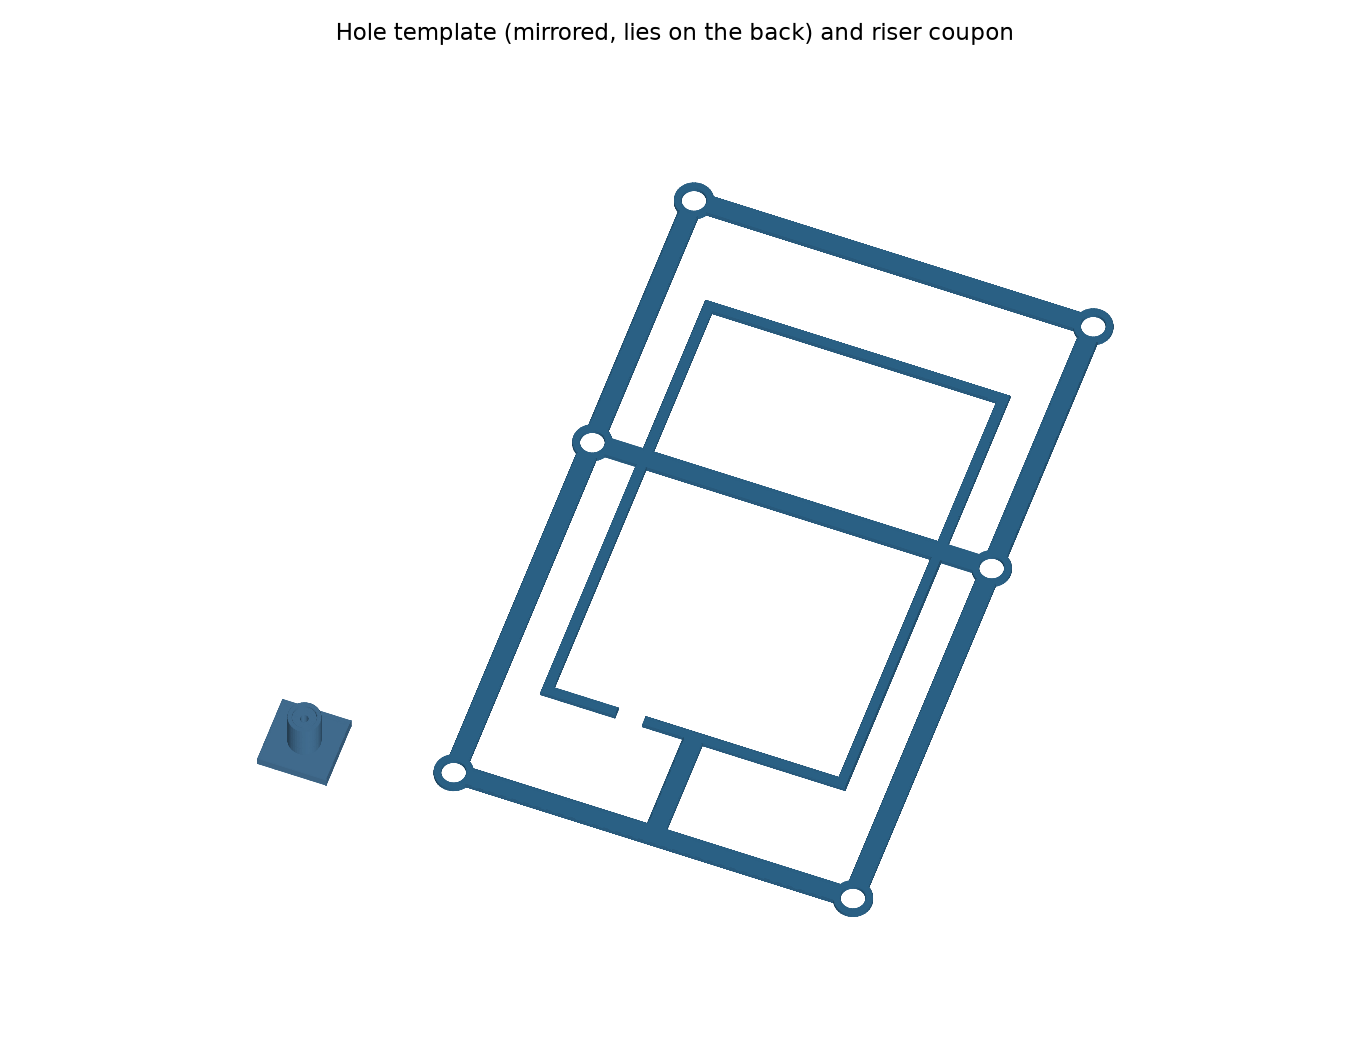
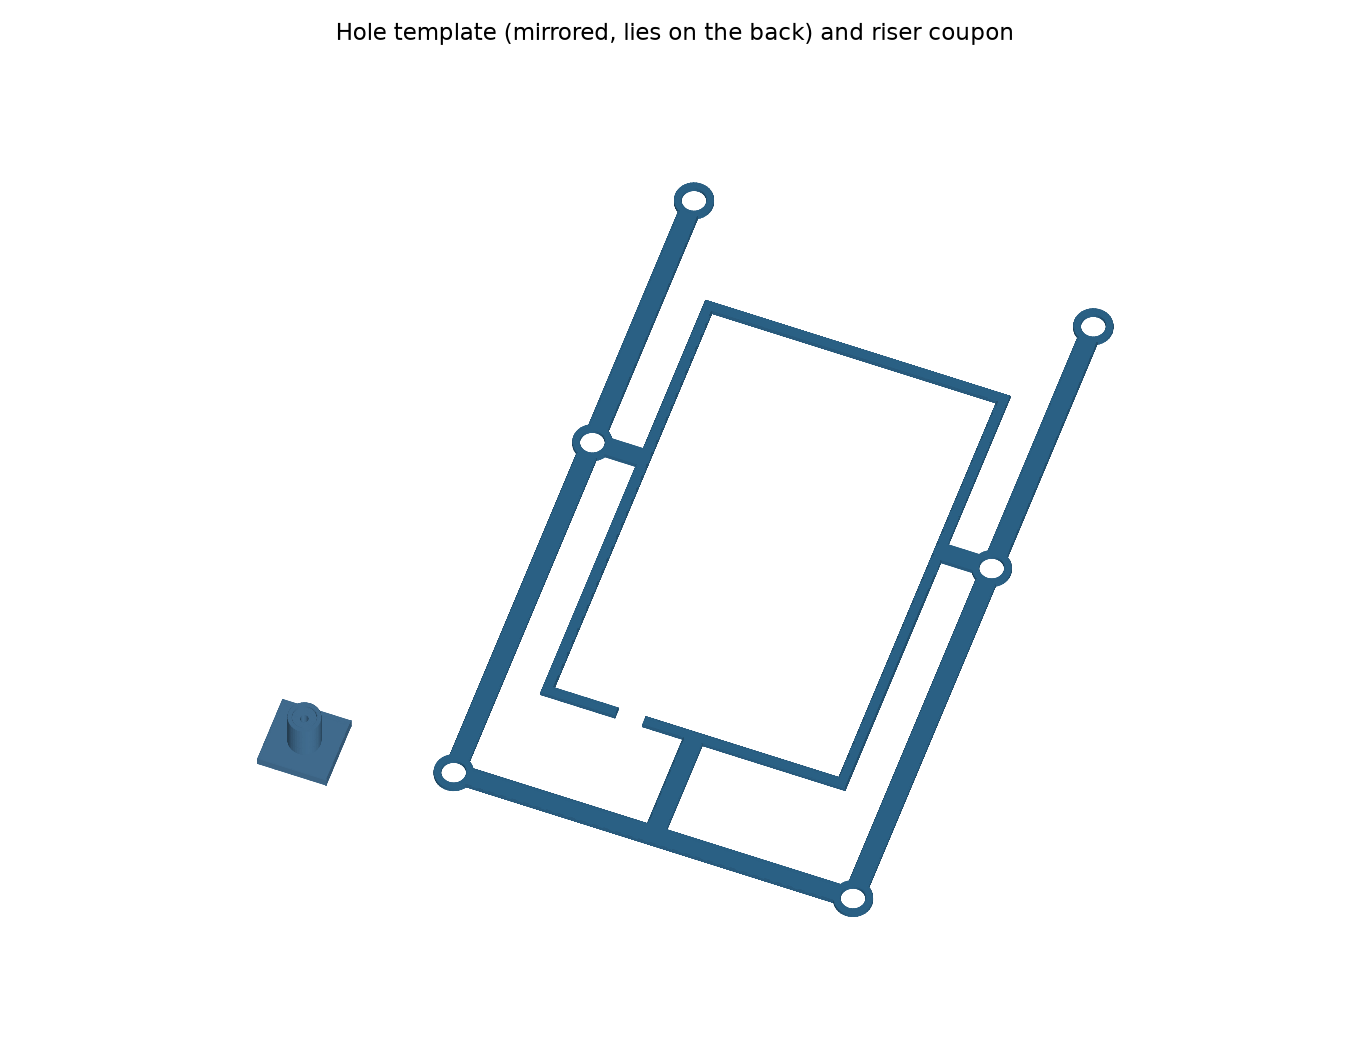
fix: COM-396 hole template clears the rear box and FPC bracket
The template's middle rung crossed the rear box and its top rung the LCD-FPC
bracket, so it couldn't lie flat on the board's back. The middle rings now tie
to the box band with short stubs, there's no top rung, and a new check keeps
the template clear of the board. Also corrects the world-frame Y origin in the
params docstring.

Changed region(s): [[0.5289, 0.1829, 0.8089, 0.3352], [0.4667, 0.4267, 0.7156, 0.5486]]

diff --git a/apps/espframe/hardware/stand-10/stand10/coupons.py b/apps/espframe/hardware/stand-10/stand10/coupons.py
@@ -11,40 +11,42 @@ from .foot import build_rail
 from .frames import box, dovetail_prism
 
 
-def template_coupon() -> Part:
-    """A thin ladder in the screen frame's x/y, laid face-down on the board's flat back: six rings drop over
-    the six bosses, a band rings the rear box TEMPLATE_BOX_CLEAR off it, and a notch in the band's
-    bottom edge sits under the UART port. Printed flat; it's the rear view, so it's mirrored here."""
+def template_on_back() -> Part:
+    """The hole template where it lies on the board, in the screen frame: on the flat back, TEMPLATE_T thick.
+    Six rings drop over the six bosses; a band rings the rear box TEMPLATE_BOX_CLEAR off it, with a notch in its
+    bottom edge under the UART port. Two columns join the rings, the bottom rung ties the bottom pair, short stubs
+    tie the middle pair to the band and a stub ties the band to the bottom rung. No rung crosses the box, and there's
+    none at the top, where the LCD-FPC bracket sits between the top holes (checked: no overlap with the board)."""
     t, bar = p.TEMPLATE_T, p.TEMPLATE_BAR
     xs = sorted({x for x, _ in p.HOLES})
     ys = sorted({y for _, y in p.HOLES})
     ring_od = p.BOSS_D + 0.4 + 2 * 2.0
-    out = None
-
-    def add(s):
-        nonlocal out
-        out = s if out is None else out + s
-
-    # Outer ladder through the hole centres: two columns, three rungs.
-    for x in xs:
-        add(box(x - bar / 2, x + bar / 2, ys[0], ys[-1], 0, t))
-    for y in ys:
-        add(box(xs[0], xs[-1], y - bar / 2, y + bar / 2, 0, t))
-    for x, y in p.HOLES:
-        add(Pos(x, y, 0) * Cylinder(ring_od / 2, t, align=(Align.CENTER, Align.CENTER, Align.MIN)))
-    # Band round the rear box, tied to the bottom and middle rungs.
     c, w = p.TEMPLATE_BOX_CLEAR, 3.0
     (bx0, bx1), (by0, by1) = p.BOX_X, p.BOX_Y
-    band = box(bx0 - c - w, bx1 + c + w, by0 - c - w, by1 + c + w, 0, t) - box(bx0 - c, bx1 + c, by0 - c, by1 + c, -1, t + 1)
-    add(band)
-    add(box(sum(p.BOX_X) / 2 - bar / 2, sum(p.BOX_X) / 2 + bar / 2, ys[0], by0 - c, 0, t))
-    # Holes over the bosses, and the UART notch: the port's 8.94 mm receptacle width in the band's bottom edge.
+    parts = [box(x - bar / 2, x + bar / 2, ys[0], ys[-1], 0, t) for x in xs]
+    parts.append(box(xs[0], xs[-1], ys[0] - bar / 2, ys[0] + bar / 2, 0, t))
+    parts += [Pos(x, y, 0) * Cylinder(ring_od / 2, t, align=(Align.CENTER, Align.CENTER, Align.MIN)) for x, y in p.HOLES]
+    parts.append(box(bx0 - c - w, bx1 + c + w, by0 - c - w, by1 + c + w, 0, t)
+                 - box(bx0 - c, bx1 + c, by0 - c, by1 + c, -1, t + 1))
+    parts.append(box(xs[0], bx0 - c - w + 0.5, ys[1] - bar / 2, ys[1] + bar / 2, 0, t))
+    parts.append(box(bx1 + c + w - 0.5, xs[-1], ys[1] - bar / 2, ys[1] + bar / 2, 0, t))
+    mid = sum(p.BOX_X) / 2
+    parts.append(box(mid - bar / 2, mid + bar / 2, ys[0], by0 - c - w + 0.5, 0, t))
+    out = parts[0]
+    for s in parts[1:]:
+        out += s
     for x, y in p.HOLES:
         out -= Pos(x, y, -1) * Cylinder((p.BOSS_D + 0.4) / 2, t + 2, align=(Align.CENTER, Align.CENTER, Align.MIN))
     rw = p.JACK_RECEPTACLE[0]
     out -= box(p.PORT_X - rw / 2, p.PORT_X + rw / 2, by0 - c - w - 1, by0 - c + 0.01, -1, t + 1)
-    # Mirror to the rear view so it reads the right way round lying on the back, then put it on the bed.
-    mirrored = Pos(p.SHELL_W, 0, 0) * Rot(Y=180) * out
+    # Lying on the flat back: its top face against the back, at z = -BODY_T.
+    return Pos(0, 0, -p.BODY_T - t) * out
+
+
+def template_coupon() -> Part:
+    """The hole template in print pose: flat, mirrored to the rear view so it reads the right way round
+    lying on the back."""
+    mirrored = Rot(Y=180) * template_on_back()
     bb = mirrored.bounding_box()
     return Pos(-bb.min.X, -bb.min.Y, -bb.min.Z) * mirrored
 

diff --git a/apps/espframe/hardware/stand-10/stand10/checks.py b/apps/espframe/hardware/stand-10/stand10/checks.py
@@ -7,6 +7,7 @@ from build123d import Vertex
 from . import params as p
 from . import reference as ref
 from .cable import build_path
+from .coupons import template_on_back
 from .foot import build_rail, layout, lid_detents, lift_slot_x
 from .frames import SCREEN_TO_WORLD, box, screen_box, screen_point
 from .plate import frame_tab_spans, plate_outline
@@ -250,6 +251,13 @@ def run(parts: dict) -> list:
     over_l, over_r = ob.min.X - fbb.min.X, fbb.max.X - ob.max.X
     add("Frame and foot share a centre line", abs(over_l - over_r) <= 0.1,
         f"frame overhangs the foot by {over_l:.2f} mm left / {over_r:.2f} mm right (need equal within 0.1)")
+
+    # 13. The hole template lies flat on the board's back: no overlap with the bosses, rear box or FPC bracket.
+    tmpl = template_on_back()
+    t_over = (tmpl & board).volume
+    t_gap = tmpl.distance_to(ref.shell())
+    add("Hole template lies flat on the back", t_over < 1e-3 and t_gap < 1e-3,
+        f"overlap with the board {t_over:.4f} mm³ (bosses, rear box, FPC bracket); resting on the flat back ({t_gap:.3f} mm)")
 
     # 13. Every printed part fits the P1S bed in its print pose.
     for name, solid in parts["print"].items():

diff --git a/apps/espframe/hardware/stand-10/stand10/params.py b/apps/espframe/hardware/stand-10/stand10/params.py
@@ -15,8 +15,8 @@ Coordinate frames used by the model:
 * Screen frame (plate and frame are built in it): x = across the shell, left to right as
   seen from the front, from the shell's left edge; y = up from the shell's bottom edge;
   z = -depth, so the glass front is z = 0 and the flat metal back is z = -BODY_T.
-* World frame (foot is built in it): X = across, Y = horizontal depth from the frame's
-  bottom-front corner towards the rear, Z = up from the desk.
+* World frame (foot is built in it): X = across, Y = horizontal depth from the glass's
+  bottom-front edge towards the rear, Z = up from the desk.
 
 The 10" stand is on-desk only (COM-396): the frame stands on felt on the desk and the foot
 holds the lean from behind through the dovetail, as the 7"'s COM-442 desk variant does.
